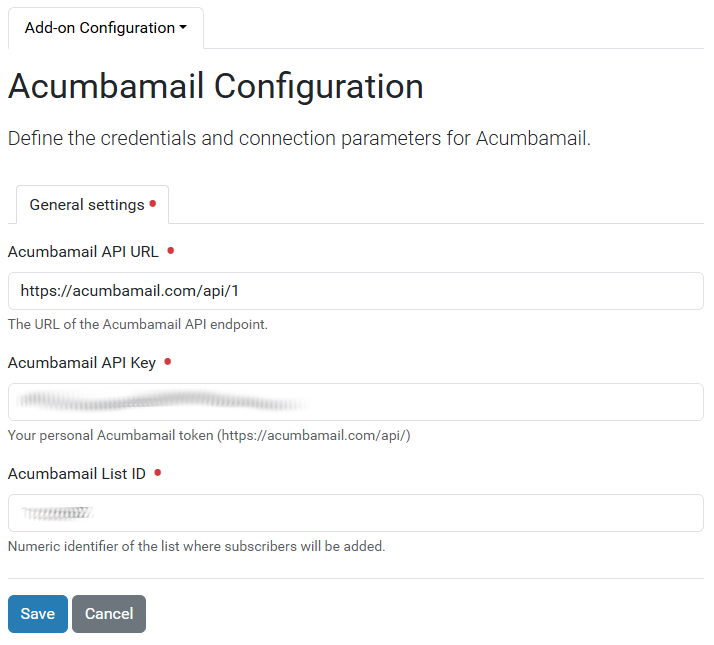
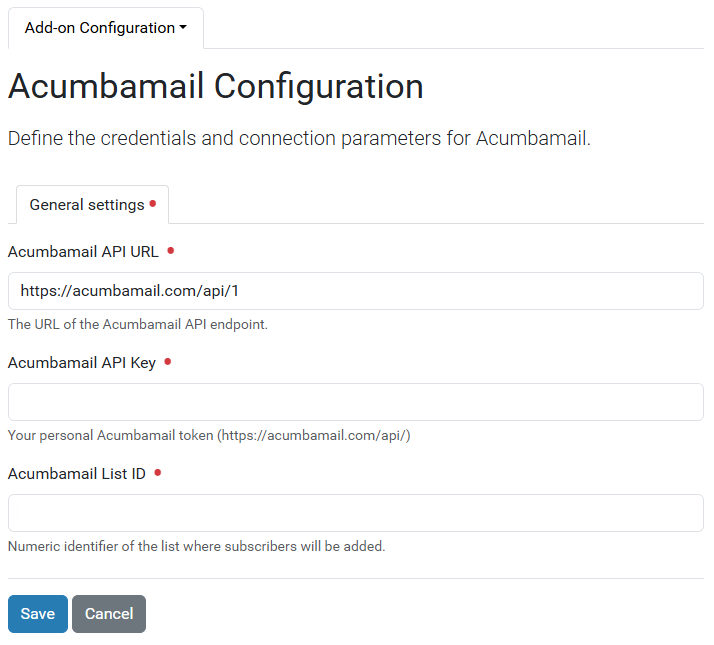
Updated the documentation #1

Changed region(s): [[0.0308, 0.5891, 0.4006, 0.6512], [0.0308, 0.7752, 0.1232, 0.8062]]

diff --git a/docs/source/how-to-guides/index.md b/docs/source/how-to-guides/index.md
@@ -48,11 +48,11 @@ Go to the `Site setup`, next to the `Add-ons` control panel, find the `collectiv
 
 To use this add-on, go to the `Site setup`, next to the ``Add-on Configuration`` icon, as shown below:
 
-<img width="290" alt="image" src="https://raw.githubusercontent.com/collective/collective.volto.acumbamail/refs/heads/main/docs/images/addon-configuration-acumbamail-icon.png">
+<img width="290" alt="image" src="../../images/addon-configuration-acumbamail-icon.png" alt="Add-on Configuration">
 
 This `Acumbamail Settings`, you can access the control panel, as shown below:
 
-<img width="720" alt="image" src="https://raw.githubusercontent.com/collective/collective.volto.acumbamail/refs/heads/main/docs/images/acumbamail-settings.png">
+<img width="720" alt="image" src="../../images/acumbamail-settings.png" alt="Acumbamail Settings">
 
 In this control panel, you can configure the following fields:
 